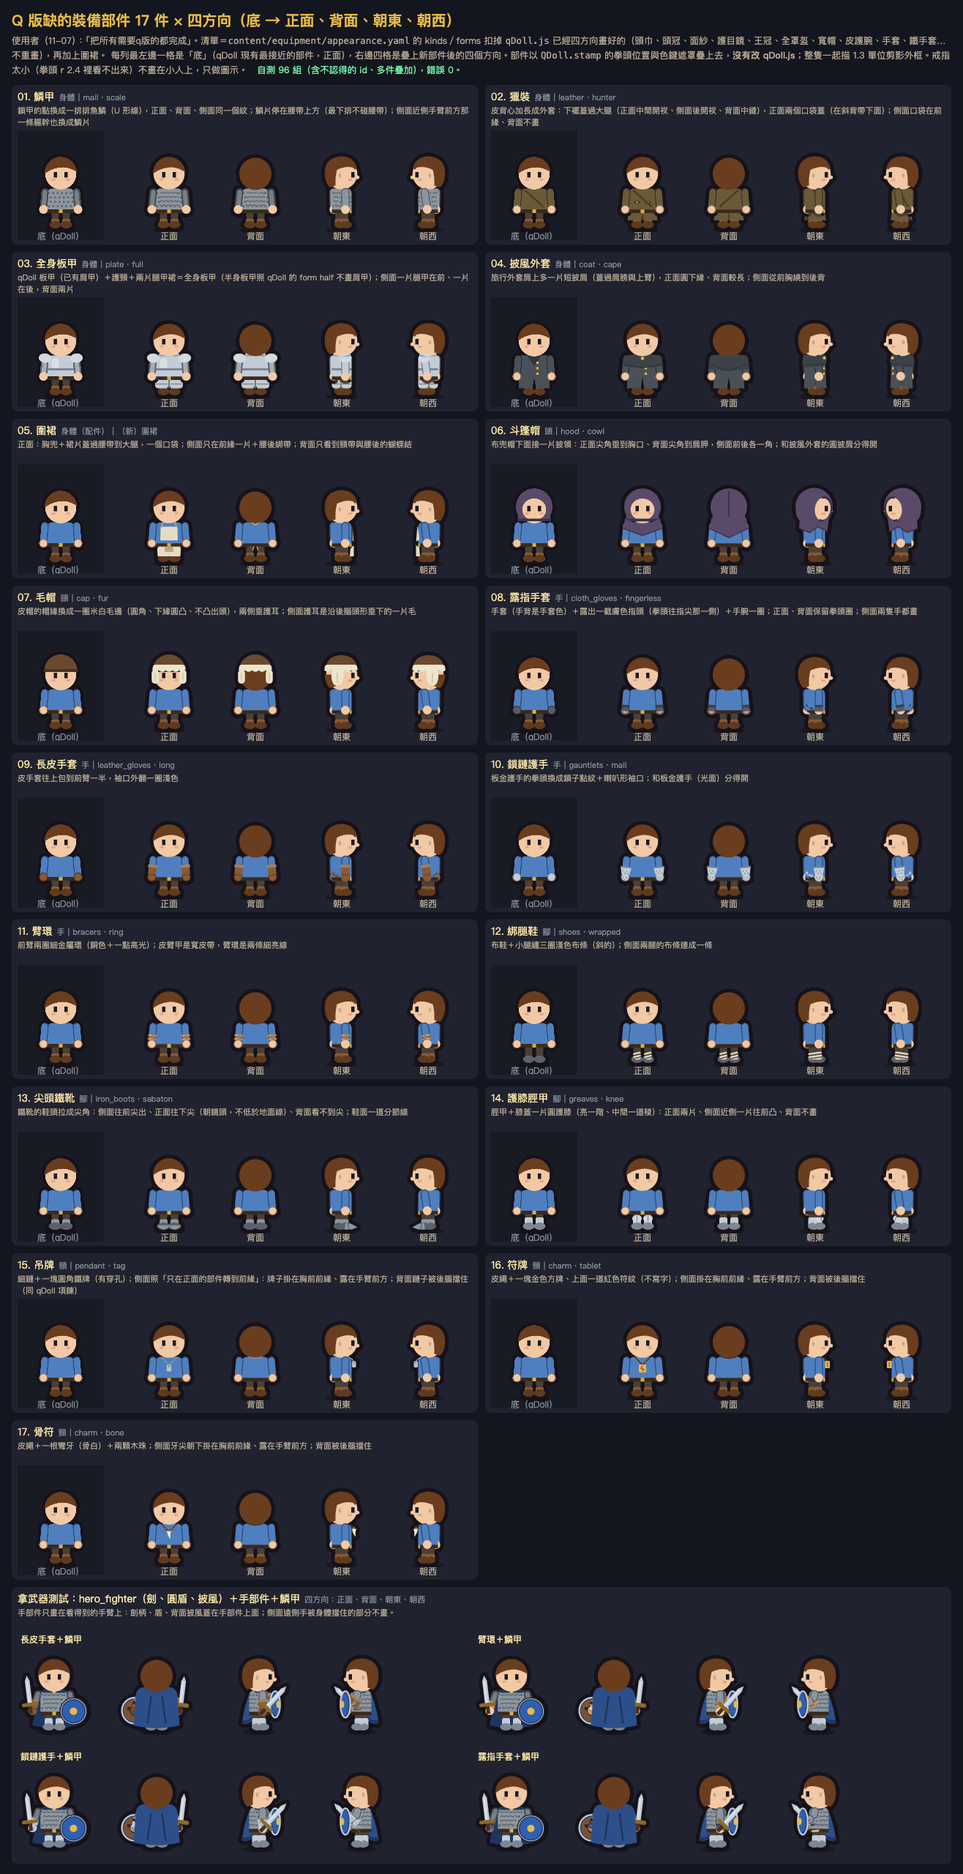
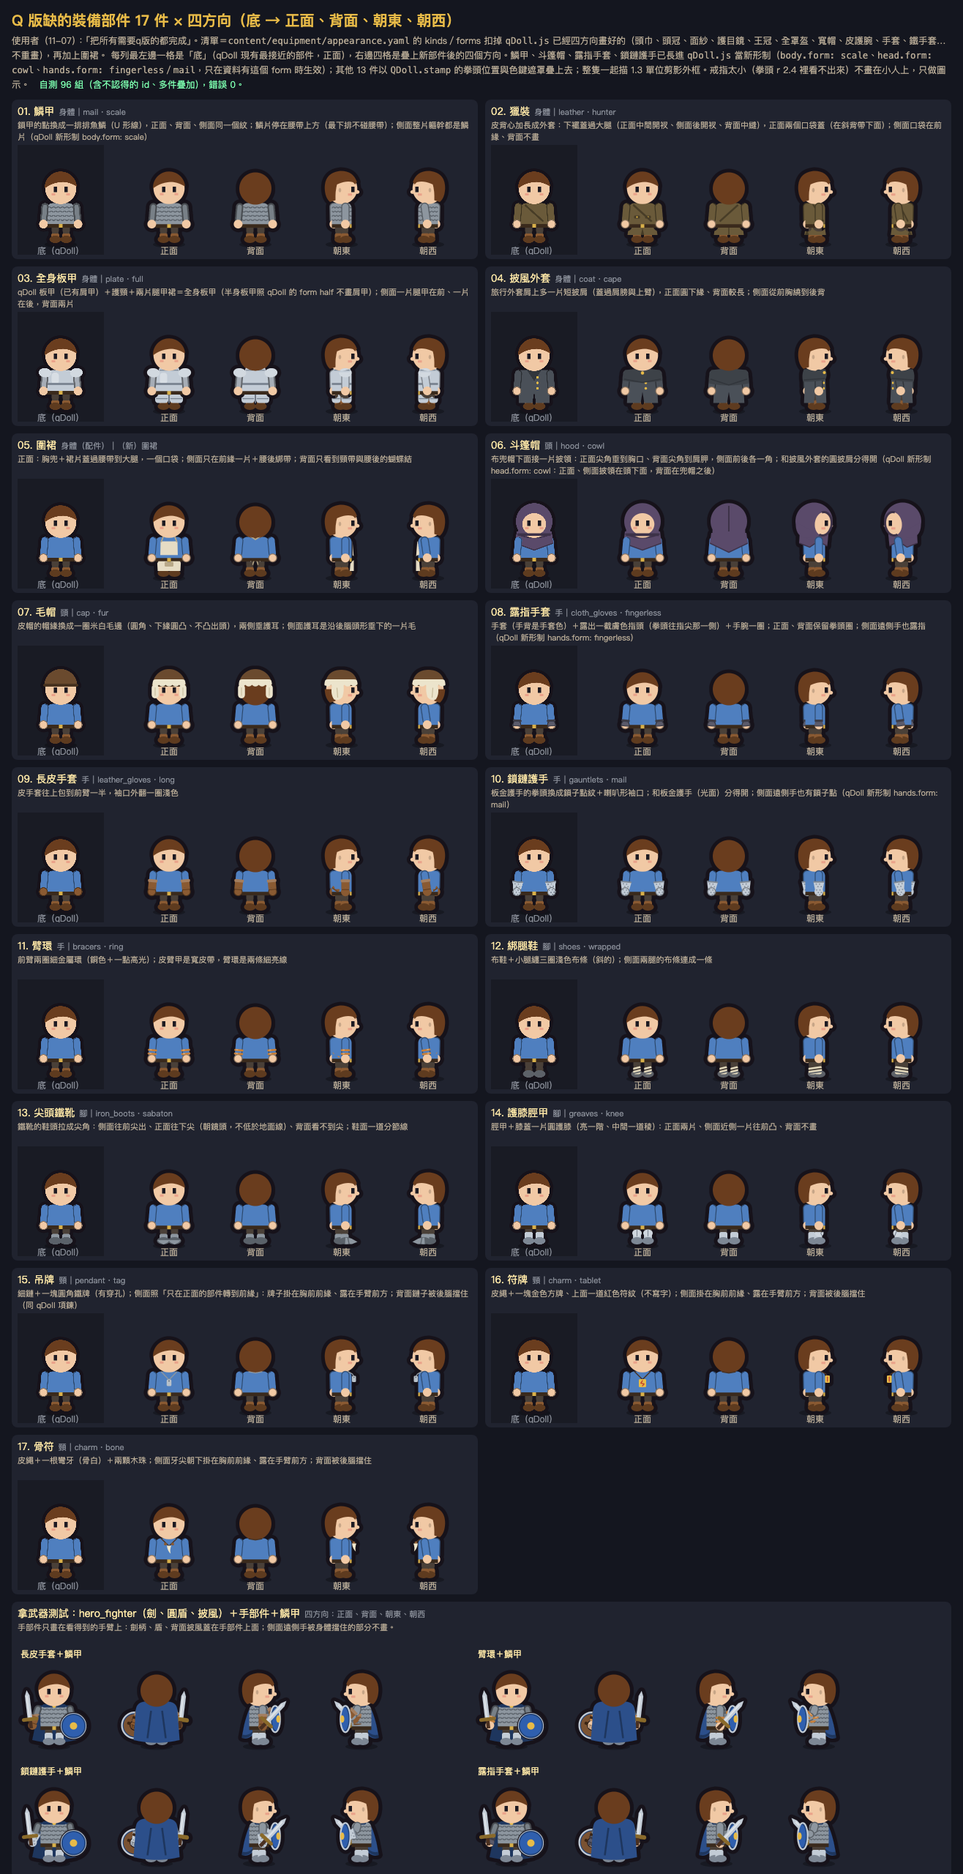
docs(art): grow scale mail, cowl, fingerless and mail gloves into qDoll

diff --git a/docs/art/sample/qDoll.js b/docs/art/sample/qDoll.js
@@ -64,6 +64,7 @@ window.QDoll = (() => {
       fill(ctx, c, () => rr(ctx, -7.5, -21, 15, 13.5, 3));
       // 胸口高光：側面在胸前那半邊，背面不畫
       if (kind === "plate") { if (!back) fill(ctx, mix(c, "#ffffff", 0.35), () => rr(ctx, side ? 1.5 : -5, -19.5, 4, 6, 1.5)); fill(ctx, d, () => ctx.rect(-7.5, -14, 15, 1.2)); }
+      else if (kind === "mail" && it?.form === "scale") { ctx.save(); ctx.beginPath(); ctx.roundRect(-7.5, -21, 15, 13.5, 3); ctx.clip(); ctx.strokeStyle = d; ctx.lineWidth = 0.55; let row = 0; for (let y = -19.6; y < -11.2; y += 2.3, row++) for (let x = -7.5 + (row % 2 ? 1.2 : 0); x <= 8.5; x += 2.4) { ctx.beginPath(); ctx.arc(x, y, 1.15, 0.15 * Math.PI, 0.85 * Math.PI); ctx.stroke(); } ctx.restore(); } /* 鱗甲（mail・scale，11-07 審查第 3 輪：從 qGearExtra 的色鍵疊加改成長進 qDoll）：一排排 U 形魚鱗，最下排停在腰帶上方；側面跟著 0.72 壓扁，沒有鎖甲方點 */
       else if (kind === "mail") { ctx.fillStyle = d; for (let y = -19; y < -9; y += 2.4) for (let x = -6 + ((y | 0) % 2); x < 6.5; x += 2.4) ctx.fillRect(x, y, 1, 1); }
       else if (kind === "leather") { const k = back ? -1 : 1; ctx.strokeStyle = d; ctx.lineWidth = 1; ctx.beginPath(); if (side) { ctx.moveTo((WEST ? 1.5 : -1.5) / 0.72, -20.8); ctx.lineTo((WEST ? -3.5 : 4.6) / 0.72, -11); } else { ctx.moveTo(-5 * k, -20); ctx.lineTo(5 * k, -11); } ctx.stroke(); } /* 第 10 版：側面照箭袋背帶（s08_01）的方向各自畫：朝東右肩在近側，從肩斜到胸前腰；朝西左腰在近側，從肩斜到背後腰（審查：「斜背帶朝東、朝西照抄」） */ // 斜背帶：右肩到左腰；背面右肩在畫面右，斜向和正面相反（第 7 版）
       fill(ctx, look.belt ?? "#3a2a1c", () => ctx.rect(-7.5, -9.5, 15, 2));
@@ -100,8 +101,10 @@ window.QDoll = (() => {
     else if (!handOnly && !TINT) { seam(() => ctx.roundRect(x - 2, -21, 4, ua + fa + 0.5, 2)); if (!NOPAD && kind === "plate" && it?.form !== "half") fill(ctx, mix(c, "#ffffff", 0.25), () => { ctx.beginPath(); ctx.ellipse(x, -19.5, 3.5, 2.5, 0, 0, TAU); }); } /* 第 17 版 B 批審查：打直的手臂（肘角 0）只描一圈，從肩到手腕連成一條，不再上下兩圈像鏈環；肩甲再蓋回上面 */
     if (!handOnly && gear.hands && gear.hands.kind === "bracers") { const [bc, bd] = colors(gear.hands); fill(ctx, TINT ?? bc, () => rr(ctx, x - 2.3, hy - 3.1, 4.6, 2.4, 0.8)); fill(ctx, TINT ?? bd, () => ctx.rect(x - 2.3, hy - 1.7, 4.6, 0.6)); } // 護腕：四方向都跟著前臂
     const fistC = TINT ?? ((k0) => (FARH ? mix(k0, "#000000", FARH) : k0))(gear.hands && gear.hands.kind !== "bracers" ? hc : look.skin);
+    if (!handOnly && !TINT) handFormUnder(ctx, gear.hands, x, hy);
     if (!handOnly) fill(ctx, fistC, () => { ctx.beginPath(); ctx.arc(x, hy, 2.4, 0, TAU); });
-    if (!handOnly && (FILLARM || FREEARM) && !side && !elbowA && !SEAM && !TINT && ARM.edge && ARM.edge.fist && qWeapon(gear.main_hand)?.kind !== "gauntlet") fistEdge(ctx, sleeve, fistC, x, hy, ua, fa); /* 可行性樣張（tools/fist-edge-compare.html，使用者：「粗內線可以但拳頭也要有」）：空手的拳頭也描一條線，和袖子分得開；生效條件和 armEdge 相同，拳套（glove 整個蓋住拳頭、自己有護腕和指節板）不畫；第 17 版 B 批補修起預設 E 帶 edge.fist（ring 0.9／0.45） */
+    if (!handOnly && (FILLARM || FREEARM) && !side && !elbowA && !SEAM && !TINT && ARM.edge && ARM.edge.fist && qWeapon(gear.main_hand)?.kind !== "gauntlet") fistEdge(ctx, sleeve, fistC, x, hy, ua, fa);
+    if (!handOnly && !TINT) handFormOver(ctx, gear.hands, look.skin, x, hy, (c) => (FARH ? mix(c, "#000000", FARH) : c), (FILLARM || FREEARM) && !side && !elbowA && !SEAM && ARM.edge && ARM.edge.fist && qWeapon(gear.main_hand)?.kind !== "gauntlet" ? (c) => fistEdge(ctx, sleeve, c, x, hy, ua, fa) : null); /* 可行性樣張（tools/fist-edge-compare.html，使用者：「粗內線可以但拳頭也要有」）：空手的拳頭也描一條線，和袖子分得開；生效條件和 armEdge 相同，拳套（glove 整個蓋住拳頭、自己有護腕和指節板）不畫；第 17 版 B 批補修起預設 E 帶 edge.fist（ring 0.9／0.45） */
     // 第 8 版：拳套戴在手上，兩隻手都戴、包住整個拳頭，指節朝前臂的延長線（使用者：「拳套根本沒有套著」）
     if (!handOnly && !TINT && qWeapon(gear.main_hand)?.kind === "gauntlet") glove(ctx, gear.main_hand, x, hy);
     // 第 8 版：手上的東西（武器、匕首、書）畫在手的上面，握把從拳頭上穿過去（使用者：「法仗塗層要在最上面」）
@@ -141,8 +144,10 @@ window.QDoll = (() => {
       ctx.setTransform(T2);
       if (gear.hands && gear.hands.kind === "bracers") { const [bc, bd] = colors(gear.hands); fill(ctx, TINT ?? bc, () => rr(ctx, x - 2.3, hy - 3.1, 4.6, 2.4, 0.8)); fill(ctx, TINT ?? bd, () => ctx.rect(x - 2.3, hy - 1.7, 4.6, 0.6)); }
       const fistC = TINT ?? (gear.hands && gear.hands.kind !== "bracers" ? hc : look.skin);
+      if (!TINT) handFormUnder(ctx, gear.hands, x, hy);
       fill(ctx, fistC, () => { ctx.beginPath(); ctx.arc(x, hy, 2.4, 0, TAU); });
       if ((FILLARM || FREEARM) && !SEAM && !TINT && ARM.edge && ARM.edge.fist && qWeapon(gear.main_hand)?.kind !== "gauntlet") fistEdge(ctx, sleeve, fistC, x, hy, ua, fa);
+      if (!TINT) handFormOver(ctx, gear.hands, look.skin, x, hy, (c) => c, (FILLARM || FREEARM) && !SEAM && ARM.edge && ARM.edge.fist && qWeapon(gear.main_hand)?.kind !== "gauntlet" ? (c) => fistEdge(ctx, sleeve, c, x, hy, ua, fa) : null);
       if (!TINT && qWeapon(gear.main_hand)?.kind === "gauntlet") glove(ctx, gear.main_hand, x, hy);
     }
     ctx.setTransform(T2); rotAt(ctx, x, hy, sA0 - sA - eA); /* 手的座標系轉回打直時的角度：武器、書、匕首的角度不變 */
@@ -160,6 +165,24 @@ window.QDoll = (() => {
   }
   /* 可行性樣張：ARM.edge.fist = { mode: "ring" | "seam", w, k }。ring＝拳頭整圈描邊，clip 在拳頭圓裡再描（輪廓不變寬），顏色 mix(拳頭色, 黑, k)（拳頭色＝膚色或手套色）；
      seam＝只畫拳頭和袖子的交界：clip 到拳頭圓 ∩ 前臂，沿拳頭圓描，顏色和手臂粗內線同一色 mix(sleeve, 黑, k)。 */
+  /* 手部形制（11-07 審查第 3 輪：從 qGearExtra 的色鍵疊加改成長進 qDoll；只在資料有這個 form 時生效，其他手部裝備一像素不變）
+     在手的座標系（+y＝往指尖、−y＝往手肘），和拳頭同一層：武器、盾、背面披風照原本的圖層蓋在上面；側面遠側手照 FARH 暗一階。
+     under：畫在拳頭下面（鎖鏈護手的喇叭袖口）；over：畫在拳頭上面（露指手套的膚色指頭、鎖子點）。 */
+  function handFormUnder(ctx, h, x, hy) {
+    if (h?.kind === "gauntlets" && h.form === "mail") { const [c, d] = colors(h); fill(ctx, c, () => { ctx.moveTo(x - 2.1, hy - 1.2); ctx.lineTo(x + 2.1, hy - 1.2); ctx.lineTo(x + 3, hy - 5.6); ctx.lineTo(x - 3, hy - 5.6); ctx.closePath(); }); fill(ctx, d, () => ctx.rect(x - 3, hy - 5.8, 6, 0.8)); ctx.fillStyle = d; for (const [dx, dy] of [[-1.4, -4.2], [0.4, -4.2], [-0.5, -2.8], [1.3, -2.8]]) ctx.fillRect(x + dx - 0.3, hy + dy - 0.3, 0.6, 0.6); }
+  }
+  function handFormOver(ctx, h, skin, x, hy, far, edge) {
+    if (h?.kind === "gauntlets" && h.form === "mail") { const [, d] = colors(h); ctx.fillStyle = far(d); for (const [dx, dy] of [[-1.2, -1], [0.6, -1], [-0.3, 0.4], [1.4, 0.4], [-1.3, 1.6], [0.5, 1.6]]) ctx.fillRect(x + dx - 0.3, hy + dy - 0.3, 0.6, 0.6); }
+    if (h?.kind === "gloves" && h.form === "fingerless") {
+      const sk = far(skin), [, d] = colors(h);
+      ctx.save(); ctx.beginPath(); ctx.arc(x, hy, 2.4, 0, TAU); ctx.clip(); ctx.beginPath(); ctx.rect(x - 3, hy + 0.6, 6, 3); ctx.clip();
+      fill(ctx, sk, () => ctx.rect(x - 3, hy + 0.6, 6, 3));
+      if (edge) edge(sk); /* 正面、背面：露出的指頭保留拳頭整圈邊的下半（第 17 版） */
+      ctx.restore();
+      fill(ctx, far(d), () => ctx.rect(x - 2.3, hy + 0.35, 4.6, 0.5)); // 手套口（指根）
+      fill(ctx, far(d), () => rr(ctx, x - 2.3, hy - 2.9, 4.6, 1.3, 0.5)); // 手腕一圈
+    }
+  }
   function fistEdge(ctx, sleeve, fistC, x, hy, ua, fa) {
     const f = ARM.edge.fist, w = f.w ?? 0.55, k = EDGEK ?? f.k ?? 0.45, mode = f.mode ?? "ring";
     ctx.save(); ctx.beginPath(); ctx.arc(x, hy, 2.4, 0, TAU); ctx.clip();
@@ -1108,11 +1131,13 @@ window.QDoll = (() => {
     }
     mark("head");
     ctx.save(); rotAt(ctx, 0, -29, S ? pz("lean") * 0.3 : 0);
+    if (gear.head?.kind === "hood" && gear.head.form === "cowl" && !B) cowl(ctx, gear.head, F ? "front" : "side"); /* 斗篷帽披領：正面、側面畫在頭下面（臉蓋在披領上，頸邊不露衣領）；背面畫在兜帽之後 */
     head(ctx, look, F ? "front" : B ? "back" : "side", side, gear);
     if (R) R.ears(ctx, look, F ? "front" : B ? "back" : "side", side, gear.head, "under");
     if (R) R.hat(ctx, look, gear.head, (it) => PD_headgear(ctx, it, F ? "front" : B ? "back" : "side")); else PD_headgear(ctx, gear.head, F ? "front" : B ? "back" : "side");
     if (R) R.ears(ctx, look, F ? "front" : B ? "back" : "side", side, gear.head, "over");
     if (R) R.horns(ctx, look, F ? "front" : B ? "back" : "side", side);
+    if (gear.head?.kind === "hood" && gear.head.form === "cowl" && B) cowl(ctx, gear.head, "back"); /* 背面：披領上緣蓋到兜帽下緣，不露頭髮 */
     ctx.restore();
     if (F && key && key.c === "bow") bowStill(ctx, unit, "front"); // 第 9 版：四面同一個持弓待機
     else if (F && key) {
@@ -1336,6 +1361,19 @@ window.QDoll = (() => {
       out.push({ zh, order, pixels: bad.length === 0, bad, layers: L.join(">") });
     }
     return out;
+  }
+  /* 斗篷帽（hood・cowl，11-07 審查第 3 輪長進 qDoll）：兜帽下面接一片披領；正面尖角垂到胸口、和兜帽的接縫是順著下巴的弧線；背面尖角到肩胛；側面前後各一角 */
+  function cowl(ctx, it, view) {
+    const [c, d] = colors(it);
+    ctx.save(); ctx.lineJoin = "round";
+    if (view === "side") { fill(ctx, c, () => { ctx.moveTo(-8.4, -24); ctx.lineTo(7.4, -24); ctx.lineTo(6.6, -16); ctx.lineTo(1.6, -18.6); ctx.lineTo(-3, -15.4); ctx.lineTo(-8.8, -17.6); ctx.closePath(); });
+      ctx.strokeStyle = d; ctx.lineWidth = 0.6; ctx.beginPath(); ctx.moveTo(-8.6, -17.6); ctx.lineTo(-3, -15.4); ctx.lineTo(1.6, -18.6); ctx.lineTo(6.6, -16); ctx.stroke(); }
+    else if (view === "back") { fill(ctx, c, () => { ctx.moveTo(-9.6, -23.2); ctx.lineTo(9.6, -23.2); ctx.lineTo(10.4, -17.6); ctx.lineTo(0, -12.6); ctx.lineTo(-10.4, -17.6); ctx.closePath(); });
+      ctx.strokeStyle = d; ctx.lineWidth = 0.6; ctx.beginPath(); ctx.moveTo(-10.4, -17.6); ctx.lineTo(0, -12.6); ctx.lineTo(10.4, -17.6); ctx.stroke(); }
+    else { fill(ctx, c, () => { ctx.moveTo(-9.6, -24); ctx.lineTo(9.6, -24); ctx.lineTo(10.4, -17.6); ctx.lineTo(0, -13.8); ctx.lineTo(-10.4, -17.6); ctx.closePath(); });
+      ctx.strokeStyle = d; ctx.lineWidth = 0.6; ctx.beginPath(); ctx.moveTo(-10.4, -17.6); ctx.lineTo(0, -13.8); ctx.lineTo(10.4, -17.6); ctx.stroke();
+      ctx.beginPath(); ctx.moveTo(-9.4, -22.6); ctx.quadraticCurveTo(0, -18.4, 9.4, -22.6); ctx.stroke(); } /* 和兜帽的接縫：順著下巴的弧線（中間被臉蓋住，兩側露出） */
+    ctx.restore();
   }
   function PD_headgear(ctx, it, view) { if (!it) return; Q_headgear(ctx, it, view); }
   // 頭飾 × 四方向（11-04 晚，使用者：「還有其他物件都要考慮4面」）：正面照舊版；側面（朝東）各自轉成側面；背面看不到臉前的東西（帽簷、面紗、護目鏡鏡片、頭冠寶石）

diff --git a/docs/art/sample/qGearExtra.js b/docs/art/sample/qGearExtra.js
@@ -112,16 +112,15 @@ window.QGearExtra = (() => {
   }
 
   // ============================== 部件（17 件） ==============================
-  // 底：base(unit) → 換成最接近的 QDoll 部件。torso：只畫在看得到的軀幹上；free：不蓋手臂、拳頭；top：最上層；hand：手的座標系（+y 往指尖、−y 往手肘）。
+  // 底：base(unit) → 換成最接近的 QDoll 部件。qdoll: true＝這件已長進 qDoll.js（鱗甲、斗篷帽、露指手套、鎖鏈護手；11-07 審查第 3 輪），只換資料、不疊東西。
+  // torso：只畫在看得到的軀幹上；free：不蓋手臂、拳頭；top：最上層；hand：手的座標系（+y 往指尖、−y 往手肘）。
   const setG = (slot, it) => (u) => ({ look: u.look, gear: { ...u.gear, [slot]: it } });
   const STEEL = "#b8c0c8", COPPER = "#c8803a", GOLD = "#e8bb48", BONE = "#efe6cc", CORD = "#4a3424";
   const torsoBox = (V) => (V.S ? [-5.6, 5.6] : [-7.6, 7.6]);
   const DEFS = {
     // ---------- 身體 ----------
-    scale_mail: { zh: "鱗甲", slot: "身體", from: "mail・scale", base: setG("body", { slot: "body", kind: "mail", material: "iron" }),
-      note: "鎖甲的點換成一排排魚鱗（U 形線），正面、背面、側面同一個紋；鱗片停在腰帶上方（最下排不碰腰帶）；側面近側手臂前方那一條軀幹也換成鱗片",
-      torso(g, V) { const [c, d] = colors(V.unit.gear.body), [x0, x1] = torsoBox(V); fill(g, c, () => g.rect(x0, -22, x1 - x0, 13));
-        let row = 0; for (let y = -19.6; y < -11.2; y += 2.3, row++) for (let x = x0 + (row % 2 ? 1.2 : 0); x <= x1 + 1; x += 2.4) { g.strokeStyle = d; g.lineWidth = 0.55; g.beginPath(); g.arc(x, y, 1.15, 0.15 * Math.PI, 0.85 * Math.PI); g.stroke(); } } },
+    scale_mail: { zh: "鱗甲", slot: "身體", from: "mail・scale", base: setG("body", { slot: "body", kind: "mail", form: "scale", material: "iron" }), qdoll: true,
+      note: "鎖甲的點換成一排排魚鱗（U 形線），正面、背面、側面同一個紋；鱗片停在腰帶上方（最下排不碰腰帶）；側面整片軀幹都是鱗片（qDoll 新形制 body.form: scale）", },
     hunter: { zh: "獵裝", slot: "身體", from: "leather・hunter", base: setG("body", { slot: "body", kind: "leather", color: "#6a5a3a" }),
       note: "皮背心加長成外套：下襬蓋過大腿（正面中間開衩、側面後開衩、背面中縫），正面兩個口袋蓋（在斜背帶下面）；側面口袋在前緣、背面不畫",
       torso(g, V) { const [, d] = colors(V.unit.gear.body);
@@ -158,14 +157,8 @@ window.QGearExtra = (() => {
         else { line(g, d, 0.9, [[-7.4, -9.0], [7.4, -9.0]]); fill(g, c, () => { g.moveTo(0, -9); g.lineTo(-2.8, -10.6); g.lineTo(-2.8, -7.4); g.closePath(); g.moveTo(0, -9); g.lineTo(2.8, -10.6); g.lineTo(2.8, -7.4); g.closePath(); }); line(g, d, 0.6, [[-0.6, -8.6], [-1.4, -6]]); line(g, d, 0.6, [[0.6, -8.6], [1.4, -6]]); } },
       top(g, V) { const d = "#b8a888"; if (V.S) return; g.save(); noHead(g, V); line(g, d, 0.7, V.F ? [[-4.2, -18.4], [-3, -21.6]] : [[-3, -21.6], [0, -19.6], [3, -21.6]]); if (V.F) line(g, d, 0.7, [[4.2, -18.4], [3, -21.6]]); g.restore(); } },
     // ---------- 頭 ----------
-    hood_cowl: { zh: "斗篷帽", slot: "頭", from: "hood・cowl", base: setG("head", { slot: "head", kind: "hood", color: "#5a4a6a" }),
-      note: "布兜帽下面接一片披領：正面尖角垂到胸口、背面尖角到肩胛，側面前後各一角；和披風外套的圓披肩分得開",
-      top(g, V) { const it = V.unit.gear.head, [c, d] = colors(it); g.save(); if (!V.B) noHead(g, V); // 背面：披領蓋到兜帽下緣，不露頭髮
-        if (V.S) fill(g, c, () => { g.moveTo(-8.4, -23); g.lineTo(7.6, -23.8); g.lineTo(6.6, -16); g.lineTo(1.6, -18.6); g.lineTo(-3, -15.4); g.lineTo(-8.8, -17.6); g.closePath(); }); // 側面：前緣往上包到下巴下，不露衣領
-        else if (V.B) fill(g, c, () => { g.moveTo(-9.6, -23.2); g.lineTo(9.6, -23.2); g.lineTo(10.4, -17.6); g.lineTo(0, -12.6); g.lineTo(-10.4, -17.6); g.closePath(); });
-        else fill(g, c, () => { g.moveTo(-9.6, -23); g.quadraticCurveTo(0, -17.8, 9.6, -23); g.lineTo(10.4, -17.6); g.lineTo(0, -13.8); g.lineTo(-10.4, -17.6); g.closePath(); }); // 正面：和兜帽的接縫是順著下巴的弧線
-        line(g, d, 0.6, V.S ? [[-8.6, -17.6], [-3, -15.4], [1.6, -18.6], [6.4, -16]] : [[-10.4, -17.6], [0, V.B ? -12.6 : -13.8], [10.4, -17.6]]);
-        g.restore(); } },
+    hood_cowl: { zh: "斗篷帽", slot: "頭", from: "hood・cowl", base: setG("head", { slot: "head", kind: "hood", form: "cowl", color: "#5a4a6a" }), qdoll: true,
+      note: "布兜帽下面接一片披領：正面尖角垂到胸口、背面尖角到肩胛，側面前後各一角；和披風外套的圓披肩分得開（qDoll 新形制 head.form: cowl：正面、側面披領在頭下面，背面在兜帽之後）", },
     cap_fur: { zh: "毛帽", slot: "頭", from: "cap・fur", base: setG("head", { slot: "head", kind: "cap", color: "#6a4a2e" }),
       note: "皮帽的帽緣換成一圈米白毛邊（圓角、下緣圓凸、不凸出頭），兩側垂護耳；側面護耳是沿後腦頭形垂下的一片毛",
       erase(g, V) { if (V.S) g.rect(8.7, -34.5, 6, 4.4); }, // 側面：皮帽的帽舌伸出臉前的那段擦掉
@@ -180,18 +173,13 @@ window.QGearExtra = (() => {
         g.restore();
         for (const sx of [-1, 1]) { fill(g, F, () => rr(g, sx * 7.6 - 1.9, -31.6, 3.8, 7.6, 1.9)); line(g, Fd, 0.45, [[sx * 7.6, -29.8], [sx * 7.6, -25.6]]); } } },
     // ---------- 手 ----------
-    gloves_fingerless: { zh: "露指手套", slot: "手", from: "cloth_gloves・fingerless", base: setG("hands", { slot: "hands", kind: "gloves", color: "#5a5a6a" }),
-      note: "手套（手背是手套色）＋露出一截膚色指頭（拳頭往指尖那一側）＋手腕一圈；正面、背面保留拳頭圈；側面兩隻手都畫",
-      hand(g, V) { const sk = V.unit.look.skin, [c, d] = colors(V.unit.gear.hands); g.save(); g.beginPath(); g.arc(0, 0, 2.4, 0, TAU); g.clip(); fill(g, sk, () => g.rect(-3, 0.7, 6, 3)); line(g, dark(sk, 0.25), 0.4, [[-1.8, 0.75], [1.8, 0.75]]);
-        if (!V.S) { g.beginPath(); g.rect(-3, 0.7, 6, 3); g.clip(); g.strokeStyle = mix(sk, "#000000", 0.45); g.lineWidth = 0.9; g.beginPath(); g.arc(0, 0, 1.95, 0, TAU); g.stroke(); } // 正面、背面：露出的指頭保留拳頭圈的下半（第 17 版拳頭整圈邊）
-        g.restore(); fill(g, d, () => rr(g, -2.3, -2.9, 4.6, 1.3, 0.5)); } },
+    gloves_fingerless: { zh: "露指手套", slot: "手", from: "cloth_gloves・fingerless", base: setG("hands", { slot: "hands", kind: "gloves", form: "fingerless", color: "#5a5a6a" }), qdoll: true,
+      note: "手套（手背是手套色）＋露出一截膚色指頭（拳頭往指尖那一側）＋手腕一圈；正面、背面保留拳頭圈；側面遠側手也露指（qDoll 新形制 hands.form: fingerless）", },
     gloves_long: { zh: "長皮手套", slot: "手", from: "leather_gloves・long", base: setG("hands", { slot: "hands", kind: "gloves", material: "leather" }),
       note: "皮手套往上包到前臂一半，袖口外翻一圈淺色",
       hand(g, V) { const [c, d] = colors(V.unit.gear.hands); fill(g, c, () => rr(g, -2.2, -6.2, 4.4, 5.4, 1)); fill(g, light(c, 0.22), () => rr(g, -2.6, -6.8, 5.2, 1.6, 0.7)); line(g, d, 0.4, [[-2, -1.2], [2, -1.2]]); } },
-    gauntlet_mail: { zh: "鎖鏈護手", slot: "手", from: "gauntlets・mail", base: setG("hands", { slot: "hands", kind: "gauntlets", material: "steel" }),
-      note: "板金護手的拳頭換成鎖子點紋＋喇叭形袖口；和板金護手（光面）分得開",
-      hand(g, V) { const [c, d] = colors(V.unit.gear.hands); fill(g, c, () => { g.moveTo(-2.1, -1.2); g.lineTo(2.1, -1.2); g.lineTo(3, -5.6); g.lineTo(-3, -5.6); g.closePath(); }); fill(g, d, () => g.rect(-3, -5.8, 6, 0.8));
-        g.fillStyle = d; for (const [x, y] of [[-1.4, -3.4], [0.4, -3.4], [-0.5, -2], [1.3, -2], [-1.2, 0.2], [0.6, 0.2], [-0.3, 1.5]]) g.fillRect(x - 0.3, y - 0.3, 0.6, 0.6); } },
+    gauntlet_mail: { zh: "鎖鏈護手", slot: "手", from: "gauntlets・mail", base: setG("hands", { slot: "hands", kind: "gauntlets", form: "mail", material: "steel" }), qdoll: true,
+      note: "板金護手的拳頭換成鎖子點紋＋喇叭形袖口；和板金護手（光面）分得開；側面遠側手也有鎖子點（qDoll 新形制 hands.form: mail）", },
     bracer_ring: { zh: "臂環", slot: "手", from: "bracers・ring", base: setG("hands", undefined),
       note: "前臂兩圈細金屬環（銅色＋一點高光）；皮臂甲是寬皮帶，臂環是兩條細亮線",
       hand(g, V) { for (const y of [-5.2, -3.2]) { fill(g, COPPER, () => rr(g, -2.5, y, 5, 1.1, 0.5)); fill(g, light(COPPER, 0.5), () => g.rect(-1.6, y + 0.2, 1.2, 0.35)); } } },

diff --git a/docs/art/sample/q-gear-extra.html b/docs/art/sample/q-gear-extra.html
@@ -14,7 +14,7 @@
 <body>
 <h1>Q 版缺的裝備部件 17 件 × 四方向（底 → 正面、背面、朝東、朝西）</h1>
 <div class="sub">使用者（11-07）：「把所有需要q版的都完成」。清單＝<code>content/equipment/appearance.yaml</code> 的 kinds／forms 扣掉 <code>qDoll.js</code> 已經四方向畫好的（頭巾、頭冠、面紗、護目鏡、王冠、全罩盔、寬帽、皮護腕、手套、鐵手套…不重畫），再加上圍裙。
-每列最左邊一格是「底」（qDoll 現有最接近的部件，正面），右邊四格是疊上新部件後的四個方向。部件以 <code>QDoll.stamp</code> 的拳頭位置與色鍵遮罩疊上去，<b>沒有改 qDoll.js</b>；整隻一起描 1.3 單位剪影外框。戒指太小（拳頭 r 2.4 裡看不出來）不畫在小人上，只做圖示。<span id="test"></span></div>
+每列最左邊一格是「底」（qDoll 現有最接近的部件，正面），右邊四格是疊上新部件後的四個方向。鱗甲、斗篷帽、露指手套、鎖鏈護手已長進 <code>qDoll.js</code> 當新形制（<code>body.form: scale</code>、<code>head.form: cowl</code>、<code>hands.form: fingerless／mail</code>，只在資料有這個 form 時生效）；其他 13 件以 <code>QDoll.stamp</code> 的拳頭位置與色鍵遮罩疊上去；整隻一起描 1.3 單位剪影外框。戒指太小（拳頭 r 2.4 裡看不出來）不畫在小人上，只做圖示。<span id="test"></span></div>
 <div class="grid" id="grid"></div>
 <script src="current.js"></script><script src="raceArt.js"></script><script src="paperdoll.js"></script>
 <script src="qDoll.js"></script><script src="qGearExtra.js"></script>
